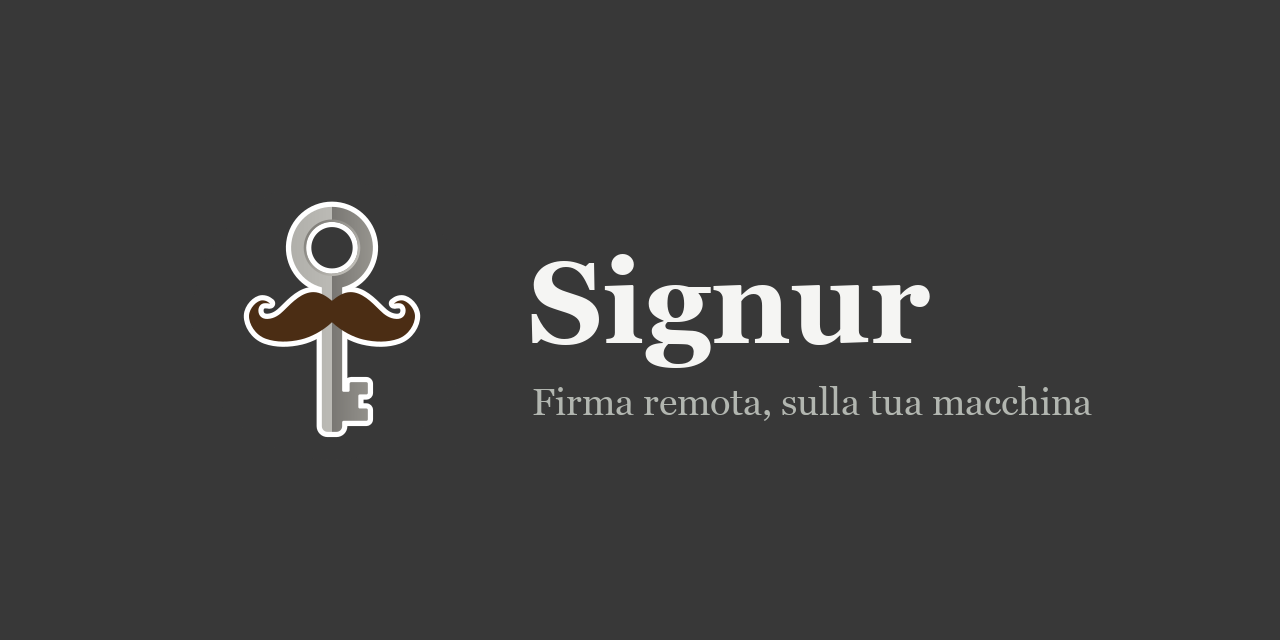
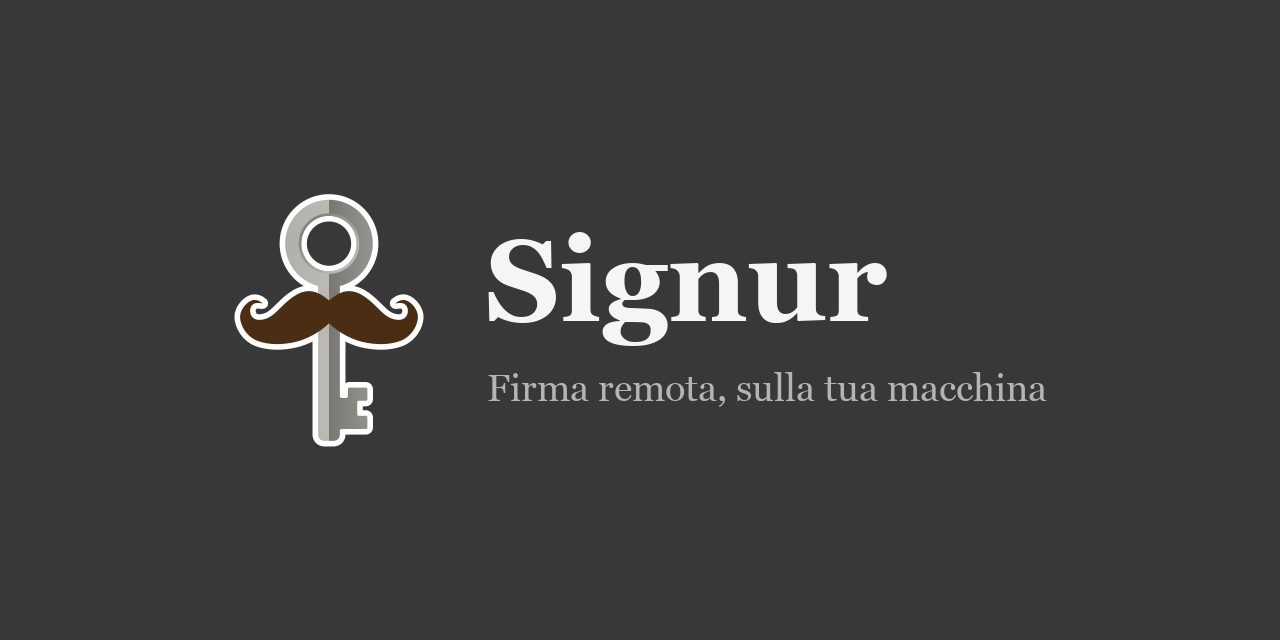
Lay out the preview card on the ink, not on the boxes
The mark sits in a disc the same colour as the card, so the disc is not what the
eye sees: laying the composition out on it left the whole thing 55 pixels off
centre. The text block also sat 18 pixels below the mark, and the two lines
started two pixels apart, because the box a font reports is not exactly the ink
it draws.

Every piece is now measured after drawing: the mark is cropped to the key and
the moustache, each line of text to its own ink, and the pieces are placed from
those measurements. Left edges coincide, the block is centred against the mark,
and the side margins match within a pixel.

The script that cuts the card from the vector is kept in tools, so the next
change to the mark or the motto does not start from scratch.

Claude-Session: https://claude.ai/code/session_012nn5K4HK3FucPf4jxVfE7e

Changed region(s): [[0.375, 0.3438, 0.875, 0.6562], [0.1875, 0.2812, 0.3125, 0.7188], [0.2812, 0.4688, 0.3438, 0.5312]]

diff --git a/tools/social-preview.py b/tools/social-preview.py
@@ -1,0 +1,64 @@
+"""Compose the GitHub preview card, measuring the ink instead of guessing at it."""
+
+import subprocess
+from pathlib import Path
+
+from PIL import Image, ImageChops, ImageDraw, ImageFont
+
+FONDO = (0x38, 0x38, 0x38)  # il disco del marchio, così il cerchio non si stacca
+LARGHEZZA, ALTEZZA = 1280, 640
+TITOLO, DIDASCALIA = "Signur", "Firma remota, sulla tua macchina"
+SPAZIO = 64          # fra marchio e testi
+INTERLINEA = 26      # fra la base del titolo e la cima della didascalia
+SORGENTE = Path("assets/signur.svg")
+DESTINAZIONE = Path("assets/social-preview.png")
+TEMP = Path("/tmp/signur-marchio.png")
+
+
+def marchio(lato: int) -> Image.Image:
+    subprocess.run(
+        ["rsvg-convert", "-w", str(lato), "-h", str(lato), str(SORGENTE), "-o", str(TEMP)],
+        check=True,
+    )
+    with Image.open(TEMP) as reso:
+        immagine = reso.convert("RGBA")
+    # Il disco ha il colore della scheda, quindi non si vede: ciò che conta per
+    # l'impaginazione è l'inchiostro, cioè la chiave e i baffi.
+    piatto = Image.new("RGB", immagine.size, FONDO)
+    piatto.paste(immagine, (0, 0), immagine)
+    differenza = ImageChops.difference(piatto, Image.new("RGB", immagine.size, FONDO))
+    maschera = differenza.convert("L").point(lambda v: 255 if v > 6 else 0)
+    return immagine.crop(maschera.getbbox())
+
+
+def riga(testo: str, font: ImageFont.FreeTypeFont, colore: tuple[int, int, int]) -> Image.Image:
+    """Draw one line and hand back just its ink, so lines can be aligned exactly."""
+    misura = Image.new("RGBA", (2000, 400), (0, 0, 0, 0))
+    ImageDraw.Draw(misura).text((40, 40), testo, font=font, fill=(*colore, 255))
+    return misura.crop(misura.getchannel("A").getbbox())
+
+
+def componi() -> None:
+    tela = Image.new("RGB", (LARGHEZZA, ALTEZZA), FONDO)
+    titolo_font = ImageFont.truetype("/System/Library/Fonts/Supplemental/Georgia Bold.ttf", 116)
+    sotto_font = ImageFont.truetype("/System/Library/Fonts/Supplemental/Georgia.ttf", 38)
+
+    segno = marchio(300)
+    titolo = riga(TITOLO, titolo_font, (245, 245, 243))
+    didascalia = riga(DIDASCALIA, sotto_font, (178, 182, 176))
+
+    larghezza_testi = max(titolo.width, didascalia.width)
+    altezza_testi = titolo.height + INTERLINEA + didascalia.height
+    sinistra = round((LARGHEZZA - (segno.width + SPAZIO + larghezza_testi)) / 2)
+    centro = ALTEZZA / 2
+
+    tela.paste(segno, (sinistra, round(centro - segno.height / 2)), segno)
+    x = sinistra + segno.width + SPAZIO
+    y = round(centro - altezza_testi / 2)
+    tela.paste(titolo, (x, y), titolo)
+    tela.paste(didascalia, (x, y + titolo.height + INTERLINEA), didascalia)
+    tela.save(DESTINAZIONE, optimize=True)
+
+
+if __name__ == "__main__":
+    componi()
